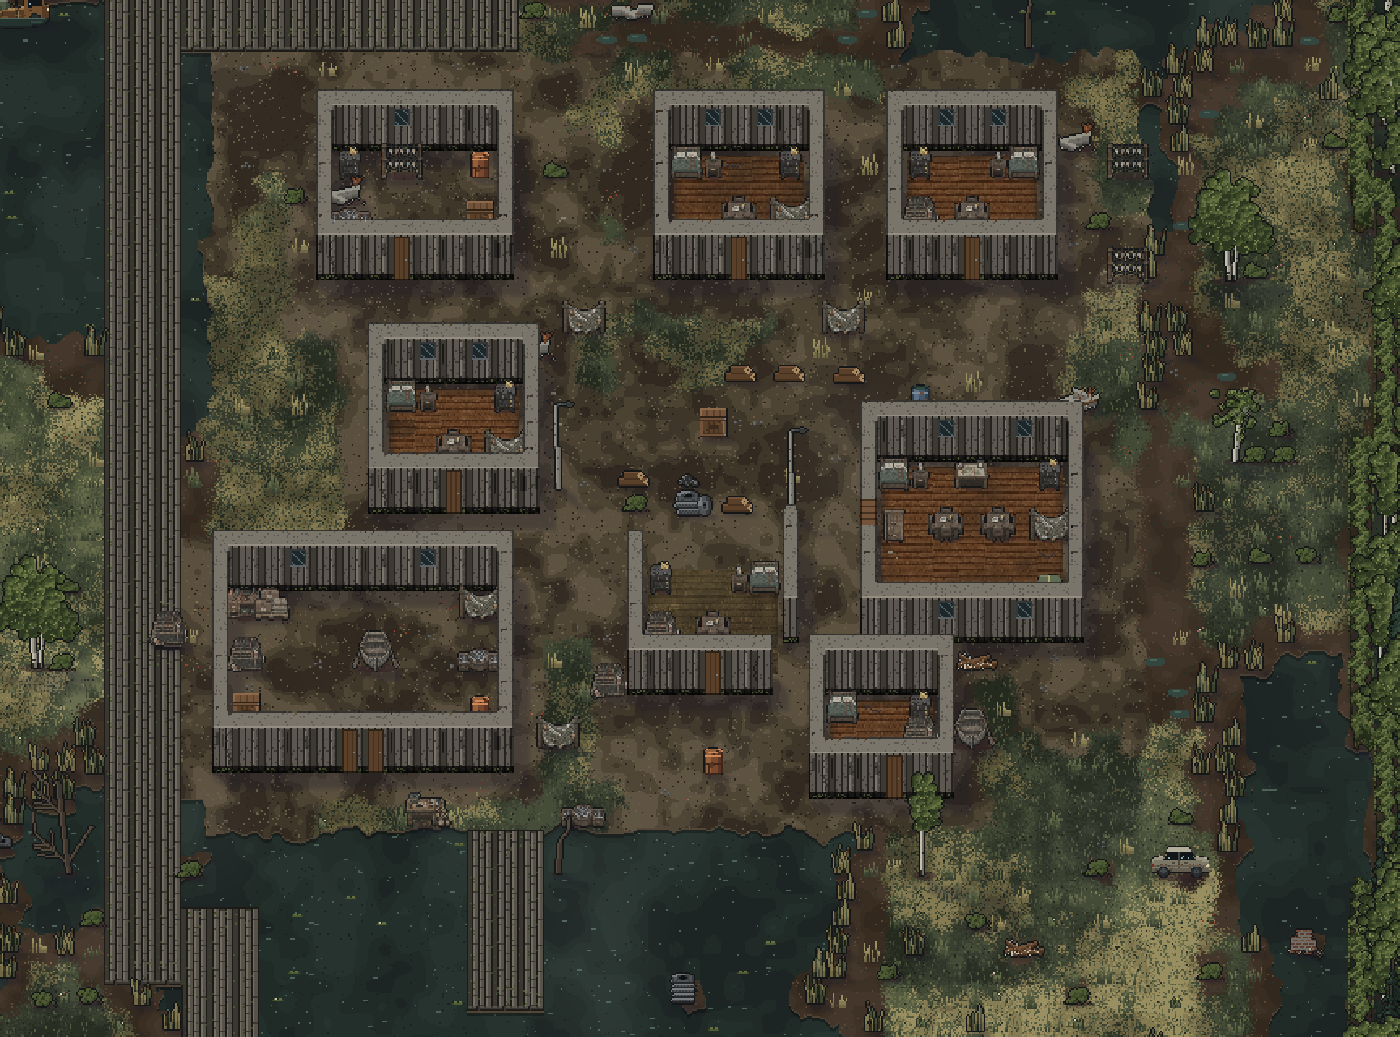
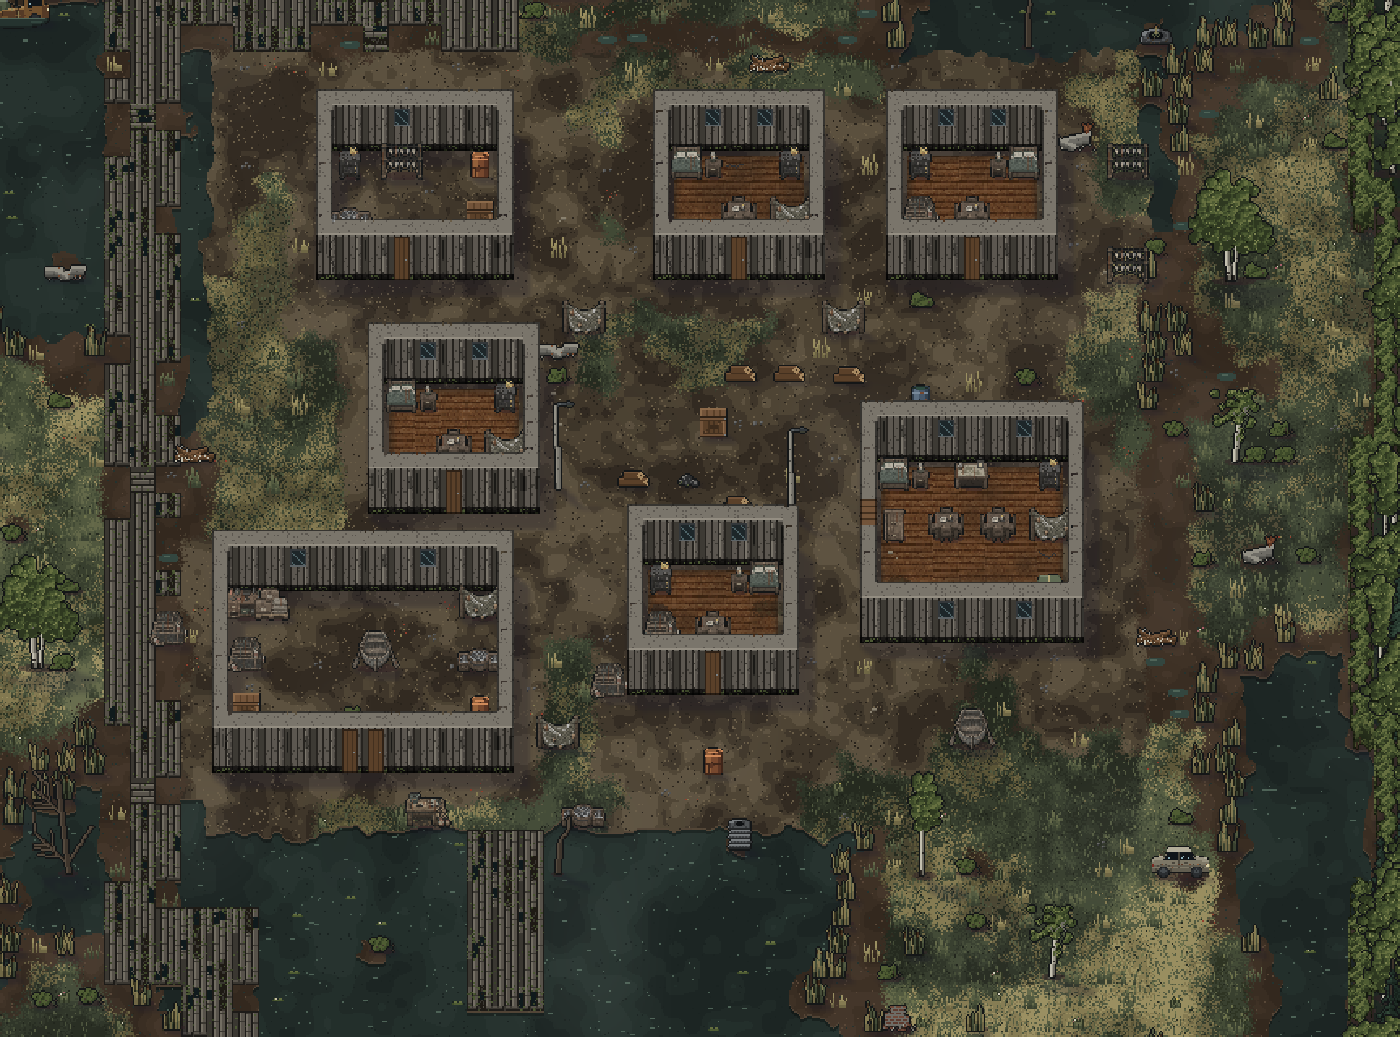
Fishing village: fire before houses (no cut walls), remove the shack by the headman's hall

diff --git a/Assets/Scripts/GameCore/TierMaps.cs b/Assets/Scripts/GameCore/TierMaps.cs
@@ -477,6 +477,7 @@ namespace GameCore
             // The Fishing Village (place C): stilt huts on a dry island, jetties, the boat shed, the headman's house
             c.Clear(150, 60, 36, 30, DarkGrass);
             c.PaintNoise(Dirt, 6f, 0.55f, 51, (x, y) => x >= 150 && x < 186 && y >= 60 && y < 90);
+            Fire(c, 168, 76, false);   // first: its 7x7 clearing used to cut the corner off the house stamped after it
             // 2026-11-26 (place 2, BUILDING_REFERENCES.md): grey driftwood houses along the shore: the boat shed on the water side with the rowboat on trestles and a jetty out, a smokehouse, four fishers' homes, the headman's hall;
             // nets and fish racks drying between them, traps, fish crates and a cleaning table at the jetty root
             c.Clear(149, 79, 14, 10, Dirt); Interiors.Stamp(c, 150, 80, Interiors.BoatShed, Interiors.BoatShedFloor, "driftwood", "workshop"); c.Put(156, 83, HardCover, "rowboat");
@@ -488,7 +489,6 @@ namespace GameCore
             c.Clear(174, 74, 11, 9, Dirt); Interiors.Stamp(c, 175, 75, Interiors.Headman, Interiors.HeadmanFloor, "driftwood", "house");                       // the headman's hall
             c.Stash("Headman's Strongbox", 182, 80);
             c.Landmark("Headman's House", 179, 79);
-            c.Clear(172, 83, 8, 7, Dirt); Interiors.Stamp(c, 173, 84, Interiors.Shack, Interiors.ShackFloor, "driftwood", "house");
             Bridge(c, 160, 90, 3, 7);                                                                                // jetties
             c.Put(187, 91, HardCover, "sunktruck");                                                                                                                  // the sunk truck sits in the water off the east pier (it stood on a pier in the forest); Yan: only the one pier stays (the south jetty), the other platforms were too neat for the place
             for (int x = 170; x < 176; x += 2) c.Put(x, 72, ScatterCover, "logs");
@@ -496,7 +496,6 @@ namespace GameCore
             c.Put(164, 70, ScatterCover, "netrack").Put(174, 70, ScatterCover, "netrack").Put(163, 86, ScatterCover, "netrack");
             c.Put(158, 89, ScatterCover, "cleantable").Put(164, 89, ScatterCover, "fishcrates").Put(148, 82, ScatterCover, "crabpots").Put(165, 84, ScatterCover, "crabpots");
             c.Put(179, 86, HardCover, "rowboat").Put(169, 87, ScatterCover, "rustbarrel").Put(163, 76, ScatterCover, "lamp").Put(172, 77, ScatterCover, "lamp").Put(177, 73, ScatterCover, "rustbarrel");
-            Fire(c, 168, 76, false);
             c.Keep(150, 60, 36, 30);
             c.Landmark("Fishing Village", 168, 74);
             // the Sunken Tanker: the hull half under water, a dry deck to shoot from

diff --git a/ArtSource/WORK_LOG.md b/ArtSource/WORK_LOG.md
@@ -7411,3 +7411,6 @@ Yan: "the artstyle is not consistent on the furniture, some have hard black outl
 
 ## Batch 9fn (2026-11-26) - the Causeway aged
 - Yan: "yeah" to ageing the Causeway. `TierMaps.cs` `Boardwalk()` now always planks the line itself and a 3x3 at each corner (the route north stays unbroken) but each flanking tile is planked only about two times in three (`ZoneThemes.Hash01(.,.,911)`), so the deck narrows and widens and its edge is ragged. `flats.py` `boardwalk(mask, seed, wear)` makes two worn variants per mask (rotten dark boards, moss, a missing stretch of plank showing the water); `WorldArt.cs` picks them by tile hash (30 % worn, 16 % broken). Harness passes (every map exit still walks); not run in Unity.
+
+## Batch 9fo (2026-11-26) - fishing village: the broken house, one house fewer
+- Yan: the middle house looked broken down; the two on the right were too close, keep only the big one. Cause: `Fire()` (`TierMaps.cs:51`) clears a 7x7 round the fire and ran after the house was stamped, cutting its top and east walls away; the fire now comes first. The small shack next to the headman's hall is removed.
